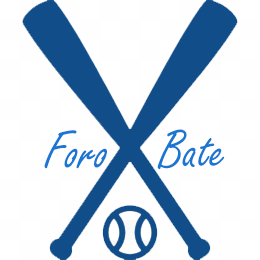
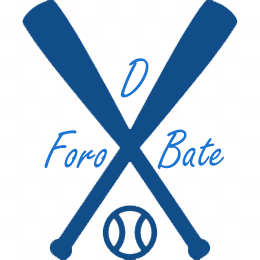
pequeños arreglos menus

Changed region(s): [[0.4615, 0.2154, 0.5846, 0.4]]

diff --git a/src/components/MenuLateral.js b/src/components/MenuLateral.js
@@ -1,0 +1,145 @@
+import * as React from 'react';
+import PropTypes from 'prop-types';
+import AppBar from '@mui/material/AppBar';
+import Box from '@mui/material/Box';
+import CssBaseline from '@mui/material/CssBaseline';
+import Divider from '@mui/material/Divider';
+import Drawer from '@mui/material/Drawer';
+import IconButton from '@mui/material/IconButton';
+import InboxIcon from '@mui/icons-material/MoveToInbox';
+import List from '@mui/material/List';
+import ListItem from '@mui/material/ListItem';
+import ListItemButton from '@mui/material/ListItemButton';
+import ListItemIcon from '@mui/material/ListItemIcon';
+import ListItemText from '@mui/material/ListItemText';
+import MailIcon from '@mui/icons-material/Mail';
+import MenuIcon from '@mui/icons-material/Menu';
+import Toolbar from '@mui/material/Toolbar';
+import Typography from '@mui/material/Typography';
+import "../styles/menulateral.css";
+const drawerWidth = 140;
+
+function MenuLateral(props) {
+  const { window } = props;
+  const [mobileOpen, setMobileOpen] = React.useState(false);
+
+  const handleDrawerToggle = () => {
+    setMobileOpen(!mobileOpen);
+  };
+
+  const drawer = (
+    <div>
+      <Toolbar className="espaciadotoolbar" />
+      <Divider  className="espaciadotoolbar"/>
+      <List className="elementosMenu">
+        {['Inbox', 'Starred', 'Send email', 'Drafts'].map((text, index) => (
+          <ListItem key={text} disablePadding>
+            <ListItemButton>
+              <ListItemIcon>
+                {index % 2 === 0 ? <InboxIcon /> : <MailIcon />}
+              </ListItemIcon>
+              <ListItemText primary={text} />
+            </ListItemButton>
+          </ListItem>
+        ))}
+      </List>
+      <Divider />
+      <List className="elementosMenu" >
+        {['All mail', 'Trash', 'Spam'].map((text, index) => (
+          <ListItem key={text} disablePadding>
+            <ListItemButton>
+              <ListItemIcon>
+                {index % 2 === 0 ? <InboxIcon /> : <MailIcon />}
+              </ListItemIcon>
+              <ListItemText primary={text} />
+            </ListItemButton>
+          </ListItem>
+        ))}
+      </List>
+    </div>
+  );
+
+  const container = window !== undefined ? () => window().document.body : undefined;
+
+  return (
+    <Box sx={{ display: 'flex'}}>
+      <CssBaseline />
+ 
+      <Box 
+        component="nav"
+        sx={{ width: { sm: drawerWidth }, flexShrink: { sm: 0 } }}
+        aria-label="mailbox folders"
+      >
+        {/* The implementation can be swapped with js to avoid SEO duplication of links. */}
+        <Drawer 
+          container={container}
+          variant="temporary"
+          open={mobileOpen}
+          onClose={handleDrawerToggle}
+          ModalProps={{
+            keepMounted: true, // Better open performance on mobile.
+          }}
+          sx={{
+            display: { xs: 'block', sm: 'none' },
+            '& .MuiDrawer-paper': { boxSizing: 'border-box', width: drawerWidth },
+          }}
+        >
+          {drawer}
+        </Drawer>
+        <Drawer 
+          variant="permanent"
+          sx={{
+            display: { xs: 'none', sm: 'block' },
+            '& .MuiDrawer-paper': { boxSizing: 'border-box', width: drawerWidth },
+          }}
+          open
+        >
+          {drawer}
+        </Drawer>
+      </Box>
+      <Box 
+        component="main"
+        sx={{ flexGrow: 1, p: 3, width: { sm: `calc(100% - ${drawerWidth}px)` } }}
+      >
+        <Toolbar />
+        <Typography paragraph>
+          Lorem ipsum dolor sit amet, consectetur adipiscing elit, sed do eiusmod
+          tempor incididunt ut labore et dolore magna aliqua. Rhoncus dolor purus non
+          enim praesent elementum facilisis leo vel. Risus at ultrices mi tempus
+          imperdiet. Semper risus in hendrerit gravida rutrum quisque non tellus.
+          Convallis convallis tellus id interdum velit laoreet id donec ultrices.
+          Odio morbi quis commodo odio aenean sed adipiscing. Amet nisl suscipit
+          adipiscing bibendum est ultricies integer quis. Cursus euismod quis viverra
+          nibh cras. Metus vulputate eu scelerisque felis imperdiet proin fermentum
+          leo. Mauris commodo quis imperdiet massa tincidunt. Cras tincidunt lobortis
+          feugiat vivamus at augue. At augue eget arcu dictum varius duis at
+          consectetur lorem. Velit sed ullamcorper morbi tincidunt. Lorem donec massa
+          sapien faucibus et molestie ac.
+        </Typography>
+        <Typography paragraph>
+          Consequat mauris nunc congue nisi vitae suscipit. Fringilla est ullamcorper
+          eget nulla facilisi etiam dignissim diam. Pulvinar elementum integer enim
+          neque volutpat ac tincidunt. Ornare suspendisse sed nisi lacus sed viverra
+          tellus. Purus sit amet volutpat consequat mauris. Elementum eu facilisis
+          sed odio morbi. Euismod lacinia at quis risus sed vulputate odio. Morbi
+          tincidunt ornare massa eget egestas purus viverra accumsan in. In hendrerit
+          gravida rutrum quisque non tellus orci ac. Pellentesque nec nam aliquam sem
+          et tortor. Habitant morbi tristique senectus et. Adipiscing elit duis
+          tristique sollicitudin nibh sit. Ornare aenean euismod elementum nisi quis
+          eleifend. Commodo viverra maecenas accumsan lacus vel facilisis. Nulla
+          posuere sollicitudin aliquam ultrices sagittis orci a.
+        </Typography>
+      </Box>
+    </Box>
+  );
+}
+
+MenuLateral.propTypes = {
+  /**
+   * Injected by the documentation to work in an iframe.
+   * You won't need it on your project.
+   */
+  window: PropTypes.func,
+};
+
+export default MenuLateral;

diff --git a/src/components/PrimarySearchAppBar.js b/src/components/PrimarySearchAppBar.js
@@ -149,26 +149,6 @@ export default function PrimarySearchAppBar() {
       open={isMobileMenuOpen}
       onClose={handleMobileMenuClose}
     >
-      <MenuItem>
-        <IconButton size="large" aria-label="show 4 new mails" color="inherit">
-          <Badge badgeContent={4} color="error">
-            <MailIcon />
-          </Badge>
-        </IconButton>
-        <p>Messages</p>
-      </MenuItem>
-      <MenuItem>
-        <IconButton
-          size="large"
-          aria-label="show 17 new notifications"
-          color="inherit"
-        >
-          <Badge badgeContent={17} color="error">
-            <NotificationsIcon />
-          </Badge>
-        </IconButton>
-        <p>Notifications</p>
-      </MenuItem>
       <MenuItem onClick={handleProfileMenuOpen}>
         <IconButton
           size="large"
@@ -204,35 +184,14 @@ export default function PrimarySearchAppBar() {
             component="div"
             sx={{ display: { xs: 'none', sm: 'block' } }}
           >
-           <h1 className="font-link">ForoBate</h1>
+          
           </Typography>
-          <Search>
-            <SearchIconWrapper>
-              <SearchIcon />
-            </SearchIconWrapper>
-            <StyledInputBase
-              placeholder="Search…"
-              inputProps={{ 'aria-label': 'search' }}
-            />
-          </Search> 
+          
           <MenuOptions></MenuOptions>
+        
           <Box sx={{ flexGrow: 1 }} />
           <Box sx={{ display: { xs: 'none', md: 'flex' } }}>
-            <IconButton size="large" aria-label="show 4 new mails" color="inherit">
-              <Badge badgeContent={4} color="error">
-                <MailIcon />
-              </Badge>
-            </IconButton>
-           
-            <IconButton
-              size="large"
-              aria-label="show 17 new notifications"
-              color="inherit"
-            >
-              <Badge badgeContent={17} color="error">
-                <NotificationsIcon />
-              </Badge>
-            </IconButton>
+          <h1 className="font-link">DForoBate</h1>
             <IconButton
               size="large"
               edge="end"

diff --git a/src/components/Home.js b/src/components/Home.js
@@ -1,9 +1,13 @@
-
+import '../styles/home.css';
+import MenuLateral from "./MenuLateral";
 export default function Comunicate() {
  
   return (
     <div className="Comunicate">
-     <h1>Nombre APP</h1>
+     <h1 className="font-menu" id="homepage">DForoBate</h1>
+   <p className="font-menu">Esta web ha sido creada con el objetivo de compartir información y debatir sobre todo tipo de temas entre los miembros registrados.<br></br> Por favor se respetuoso con los demás miembros y pasalo bien!</p>
+   <MenuLateral></MenuLateral>
     </div>
-  );
+
+);
 }

diff --git a/src/menuSuperior.css b/src/menuSuperior.css
@@ -8,19 +8,25 @@ background-color: #1976d2;
 
 nav a{
   color: white;
-}
 
+}
 #linkpos a{
 background-color: #1976d2;
   width: 210px;
   text-align: center;
   padding-top: inherit;
   font-size: large;
+
 }
 
 
 #linkpos a:hover{
   background-color: #ffffff;
 color: #1976d2;
+
   }
+
+#linkpos{
+  padding-left: 4%;
+}
 

diff --git a/src/styles/home.css b/src/styles/home.css
@@ -1,0 +1,11 @@
+h1#homepage{
+ text-align: center;
+ padding-top: 3%;
+ color:#1976d2;
+ font-size: 70px;
+}
+
+p{
+    text-align: center;
+    font-size: large;
+}

diff --git a/src/styles/menulateral.css b/src/styles/menulateral.css
@@ -1,0 +1,4 @@
+.espaciadotoolbar{
+   display: none;
+   width: fit-content;
+}
